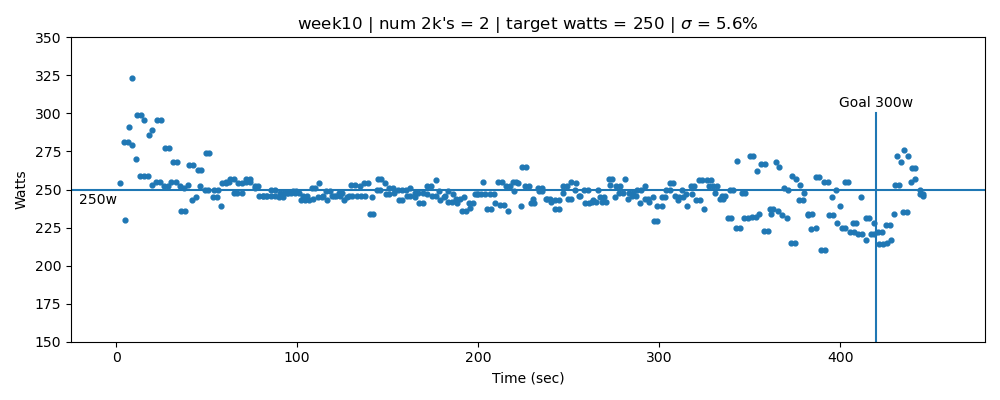
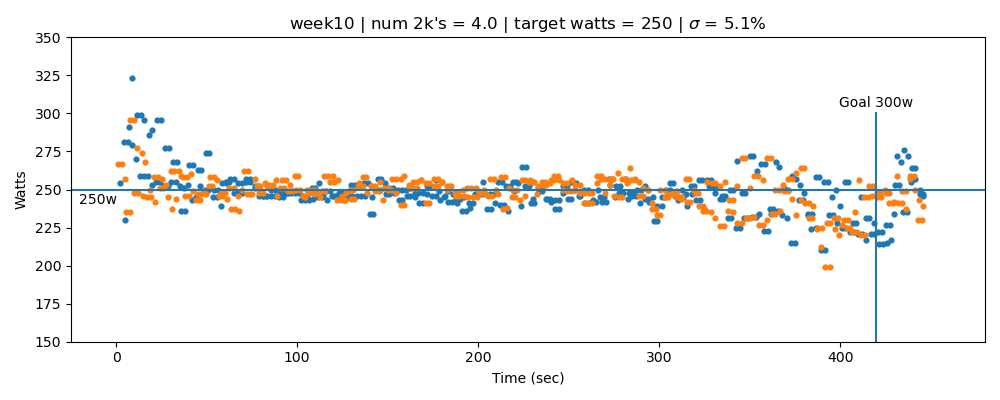
added data

diff --git a/README.md b/README.md
@@ -14,12 +14,13 @@ Not sure what the CRASH-B target is yet. (300/265)x313x0.95 ~ 340 watts? This wo
 
 #### Summary
 
-49 sessions, 147x2k
+50 sessions, 150x2k
 
-##### Week 10: 250 Watts (2x2k)
+##### Week 10: 250 Watts (4x2k)
 
 | Date | Watts |
 | ---- | ----- |
+| 2021-12-23 | 250/250 |
 | 2021-12-22 | 250/250 |
 
 ![plot](plot_week10.png)
